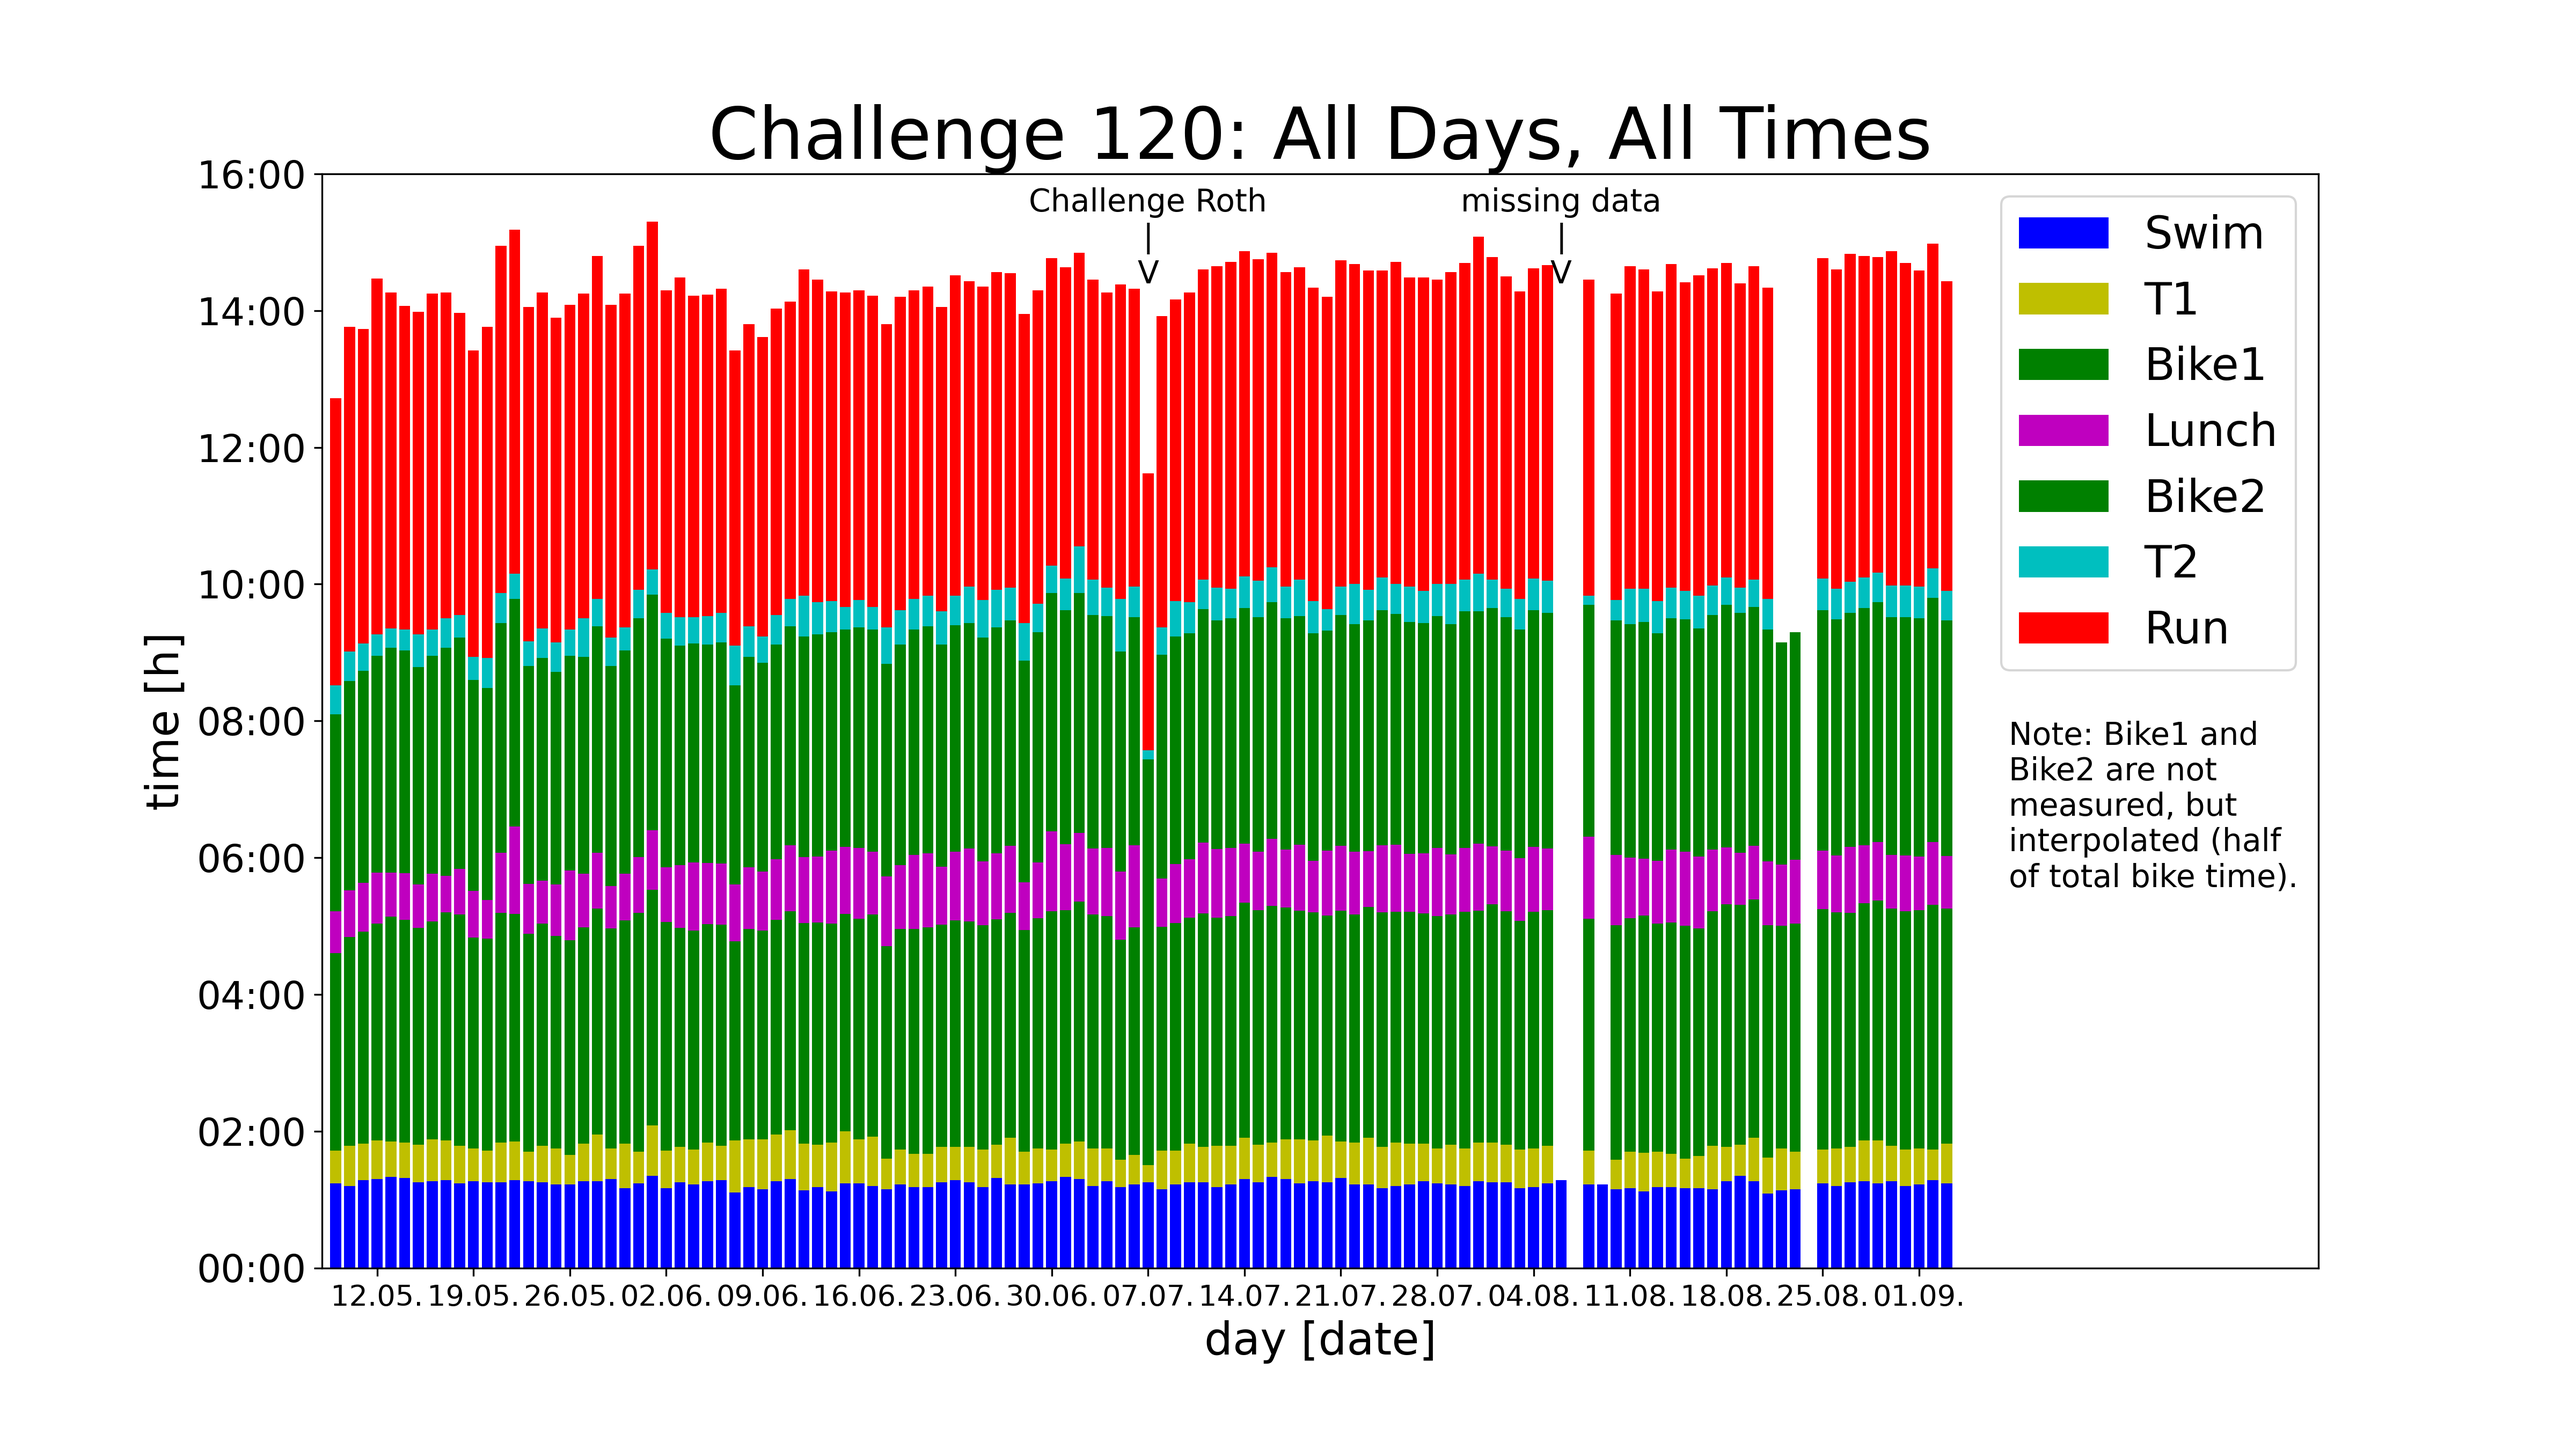
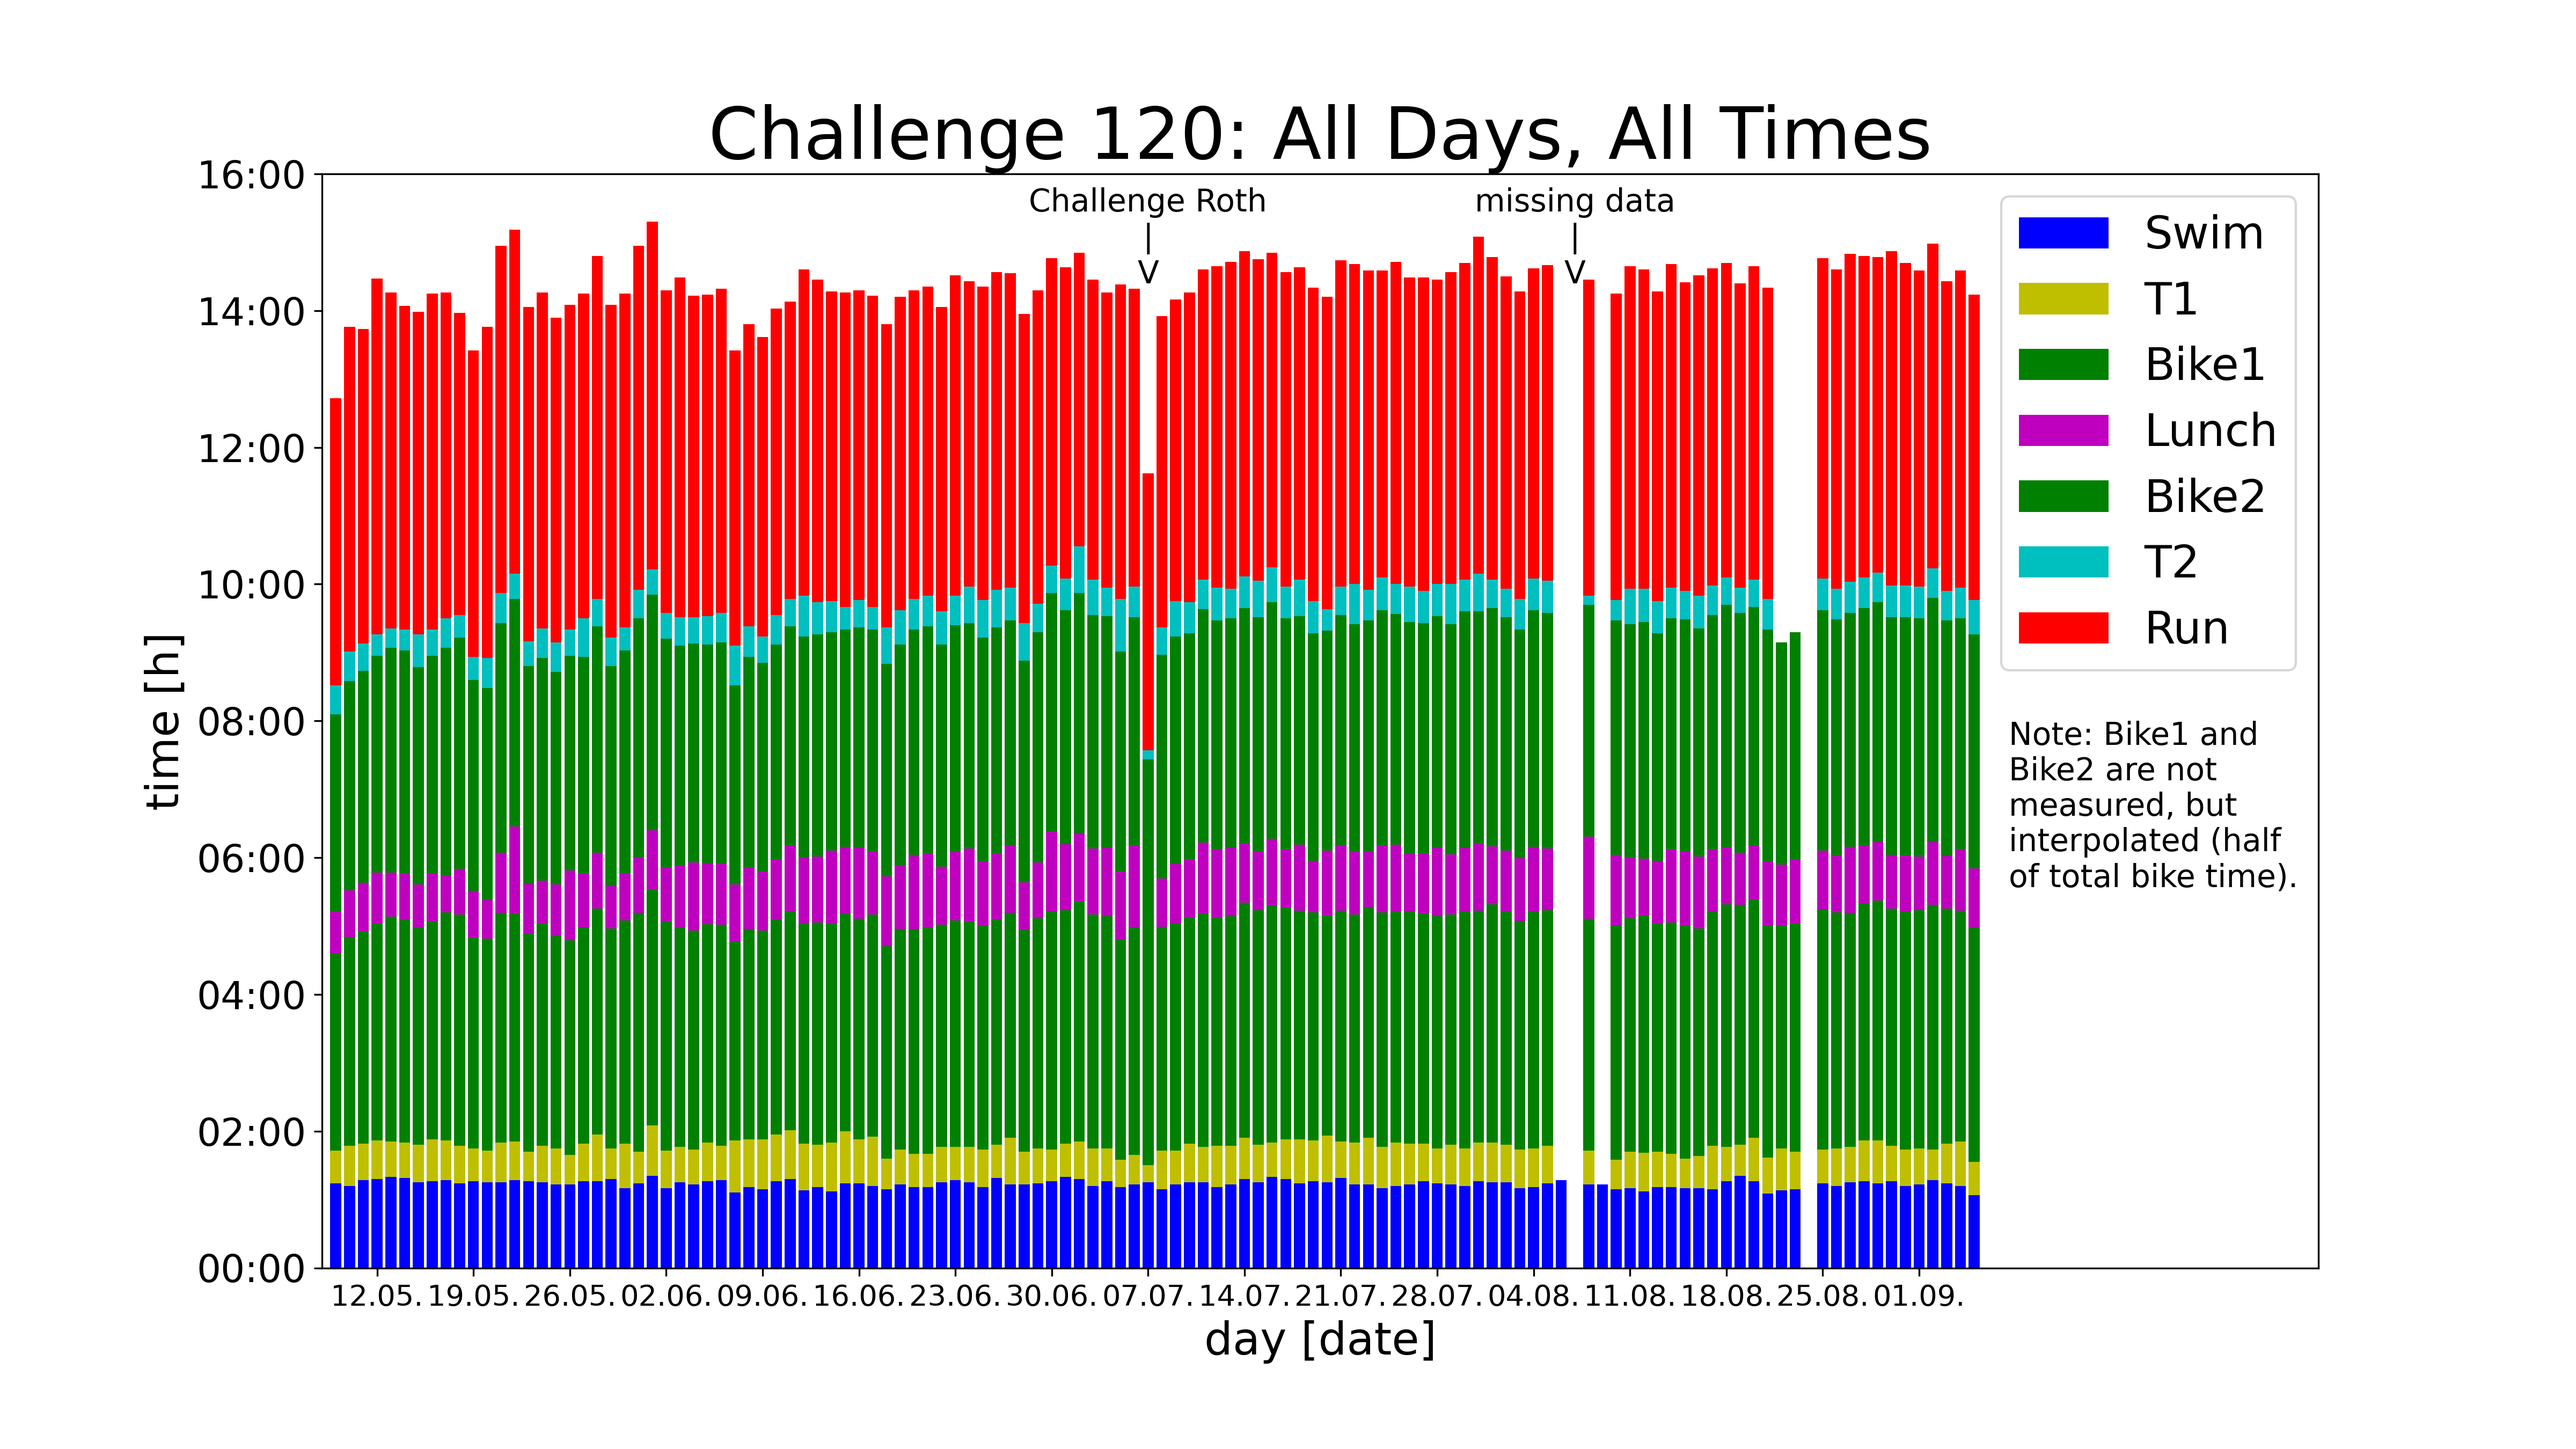
finalized data set
Remaining data from the last two days was added and the analysis rerun.

Changed region(s): [[0.75, 0.1867, 0.7812, 0.8711], [0.5625, 0.1244, 0.6562, 0.1556]]

diff --git a/Analysis.py b/Analysis.py
@@ -19,6 +19,7 @@
 # - 25/08/2024, 22:43: added y-axis labels
 # - 04/09/2024, 13:43: minor changes, some documentation
 # - 05/09/2024, 12:40: removed transparency
+# - 19/09/2024, 15:27: completed data set
 
 
 # import modules
